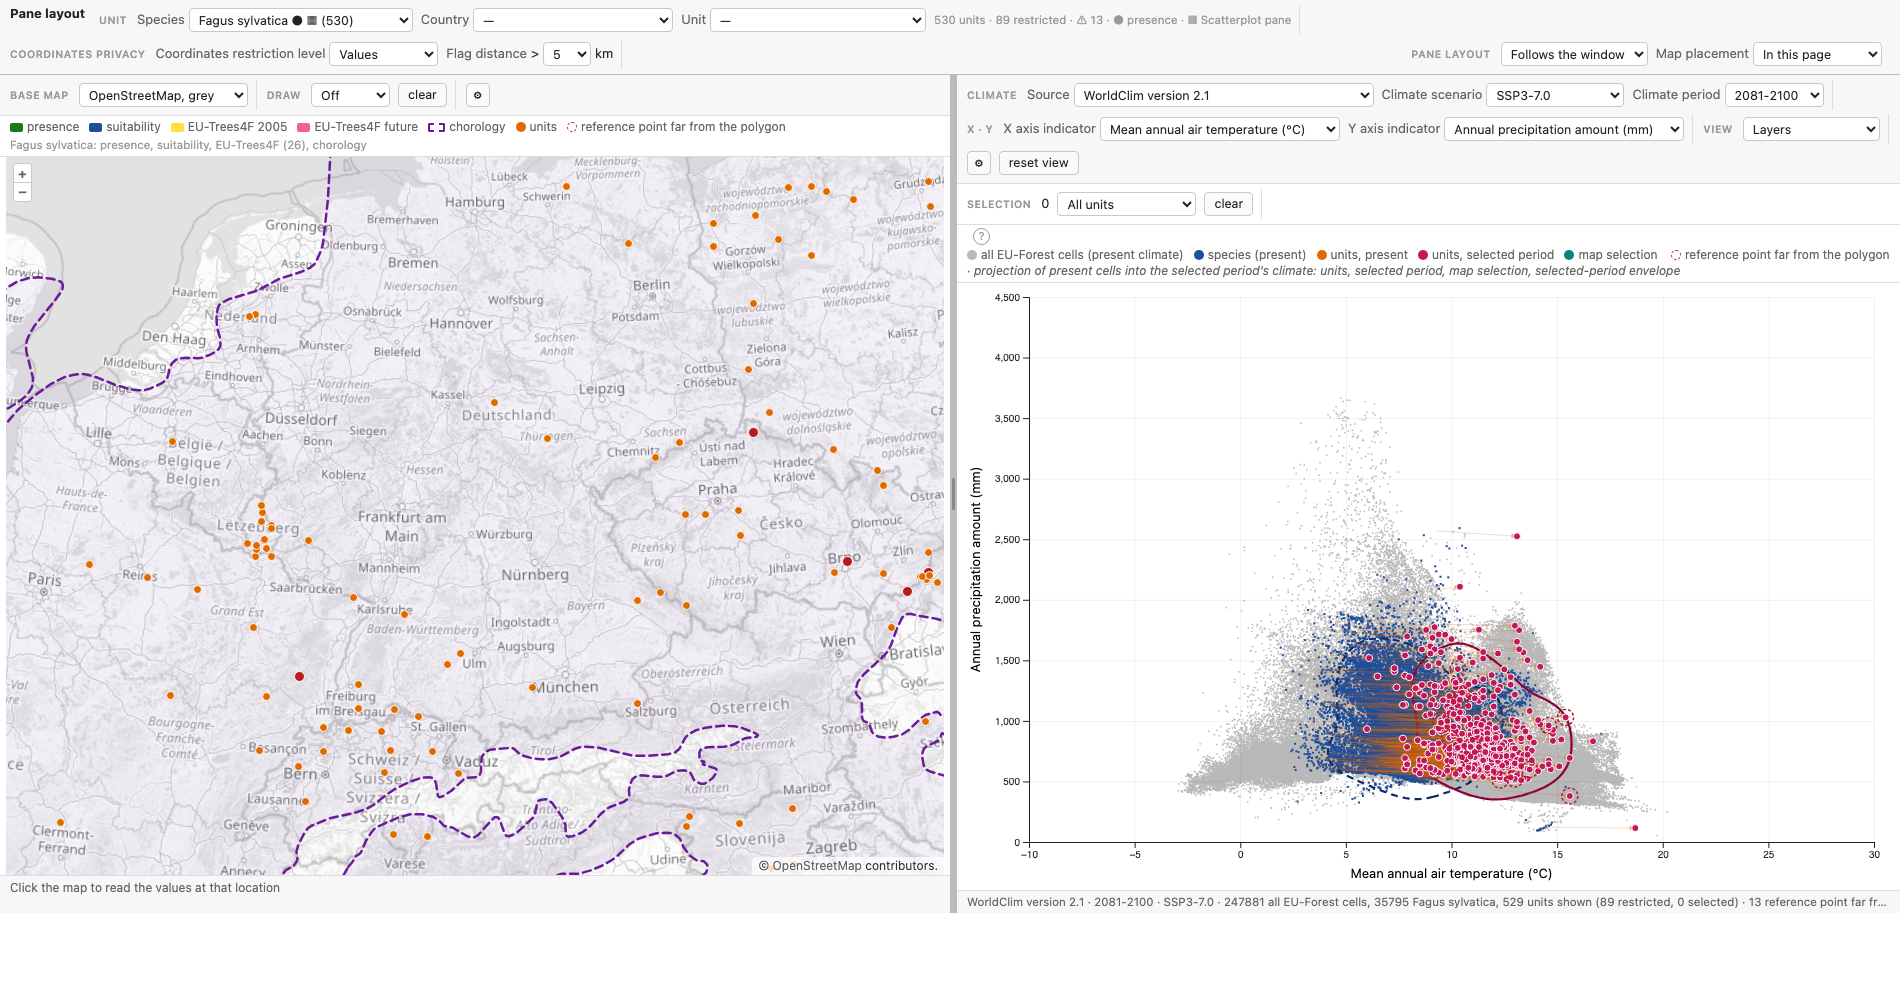
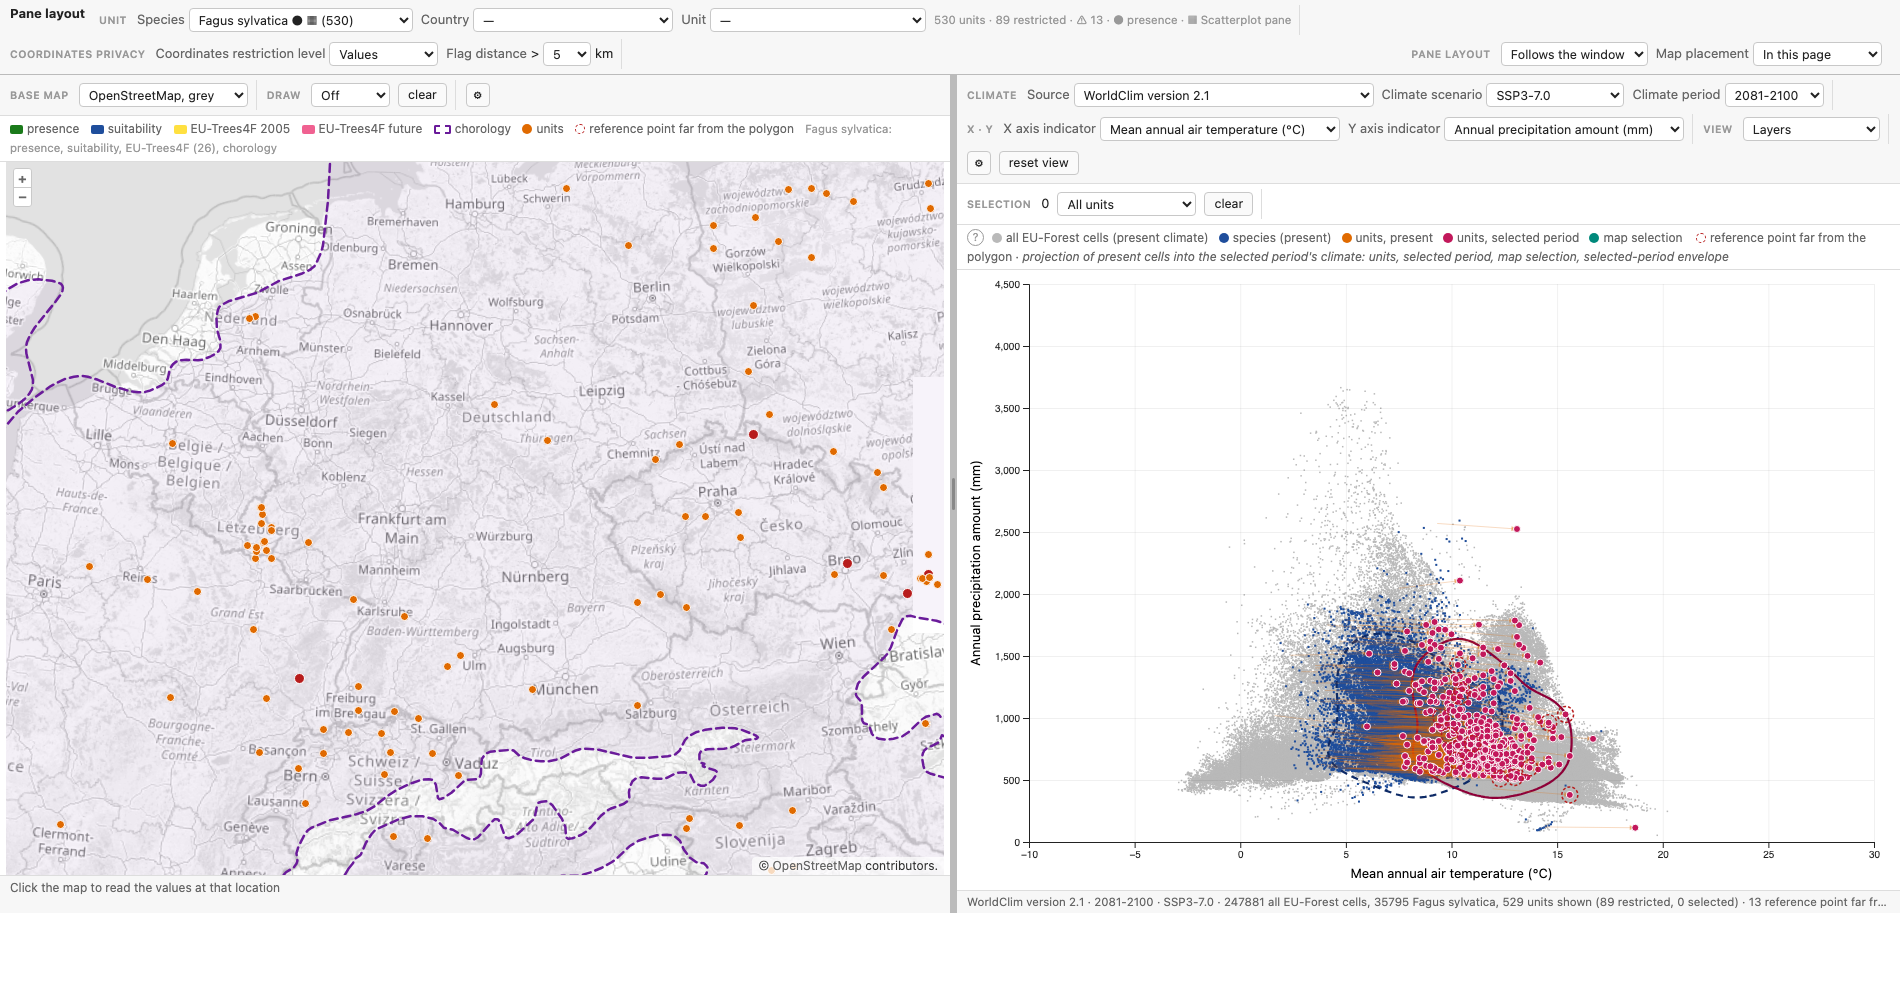
fix(examples): legend row flows inline with the help mark

diff --git a/examples/panes.css b/examples/panes.css
@@ -34,7 +34,8 @@ input[type=checkbox] { margin: 0 2px 0 0; accent-color: var(--accent) }
 body.disabled .toolbar { opacity: .45; pointer-events: none }
 
 /* legend and hints */
-.legend { display: flex; flex-wrap: wrap; align-items: center; gap: 2px 10px; padding: 3px 10px; font-size: 12px; color: var(--muted); border-bottom: 1px solid var(--line); background: #fff; flex: none }
+.legend { display: block; line-height: 1.6; padding: 3px 10px; font-size: 12px; color: var(--muted); border-bottom: 1px solid var(--line); background: #fff; flex: none }
+.legend > span { margin-right: 8px }
 .legend .sw, .legend i { display: inline-block; width: 10px; height: 10px; border-radius: 50%; vertical-align: -1px; margin: 0 4px 0 10px }
 .legend .sw:first-child, .legend i:first-child, .legend span > i:first-child { margin-left: 0 }
 .legend i.sq { border-radius: 2px; width: 13px; height: 9px }
@@ -45,7 +46,7 @@ body.disabled .toolbar { opacity: .45; pointer-events: none }
 .toolbar.collapsible { display: none }
 body.settings .toolbar.collapsible { display: flex }
 button.toggle { font-size: 13px; padding: 0 7px } body.settings button.toggle { background: #e4ecf7; border-color: var(--accent) }
-.help { display: inline-block; width: 15px; height: 15px; border-radius: 50%; border: 1px solid var(--faint); color: var(--faint); font-size: 11px; line-height: 14px; text-align: center; cursor: help; margin-left: 6px }
+.help { display: inline-block; width: 15px; height: 15px; border-radius: 50%; border: 1px solid var(--faint); color: var(--faint); font-size: 11px; line-height: 14px; text-align: center; cursor: help; margin-right: 8px; vertical-align: 1px }
 
 /* status */
 .status { padding: 3px 10px; color: var(--muted); font-size: 11.5px; border-top: 1px solid var(--line); background: var(--bar); flex: none; white-space: nowrap; overflow: hidden; text-overflow: ellipsis }
